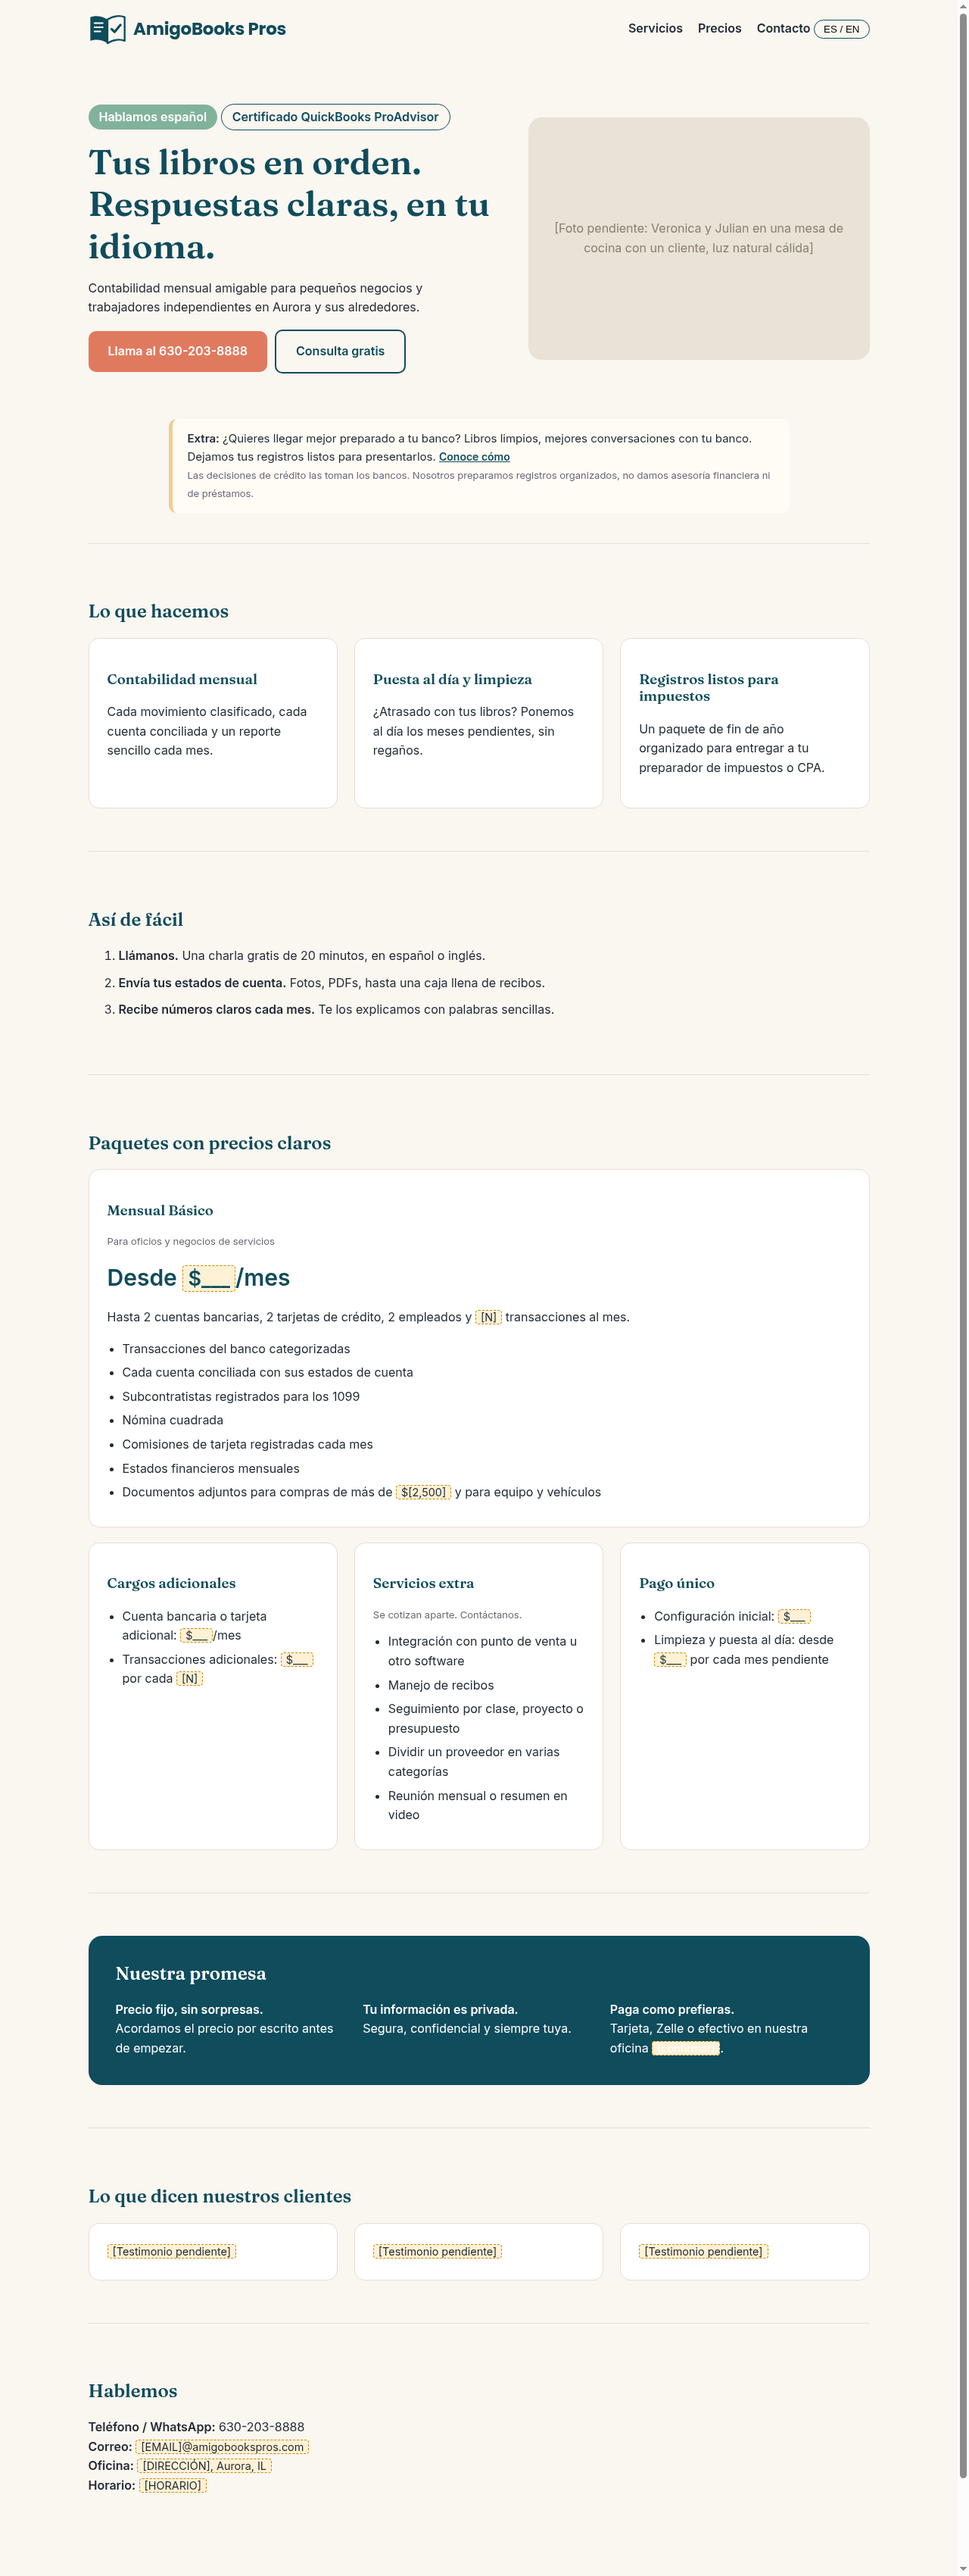
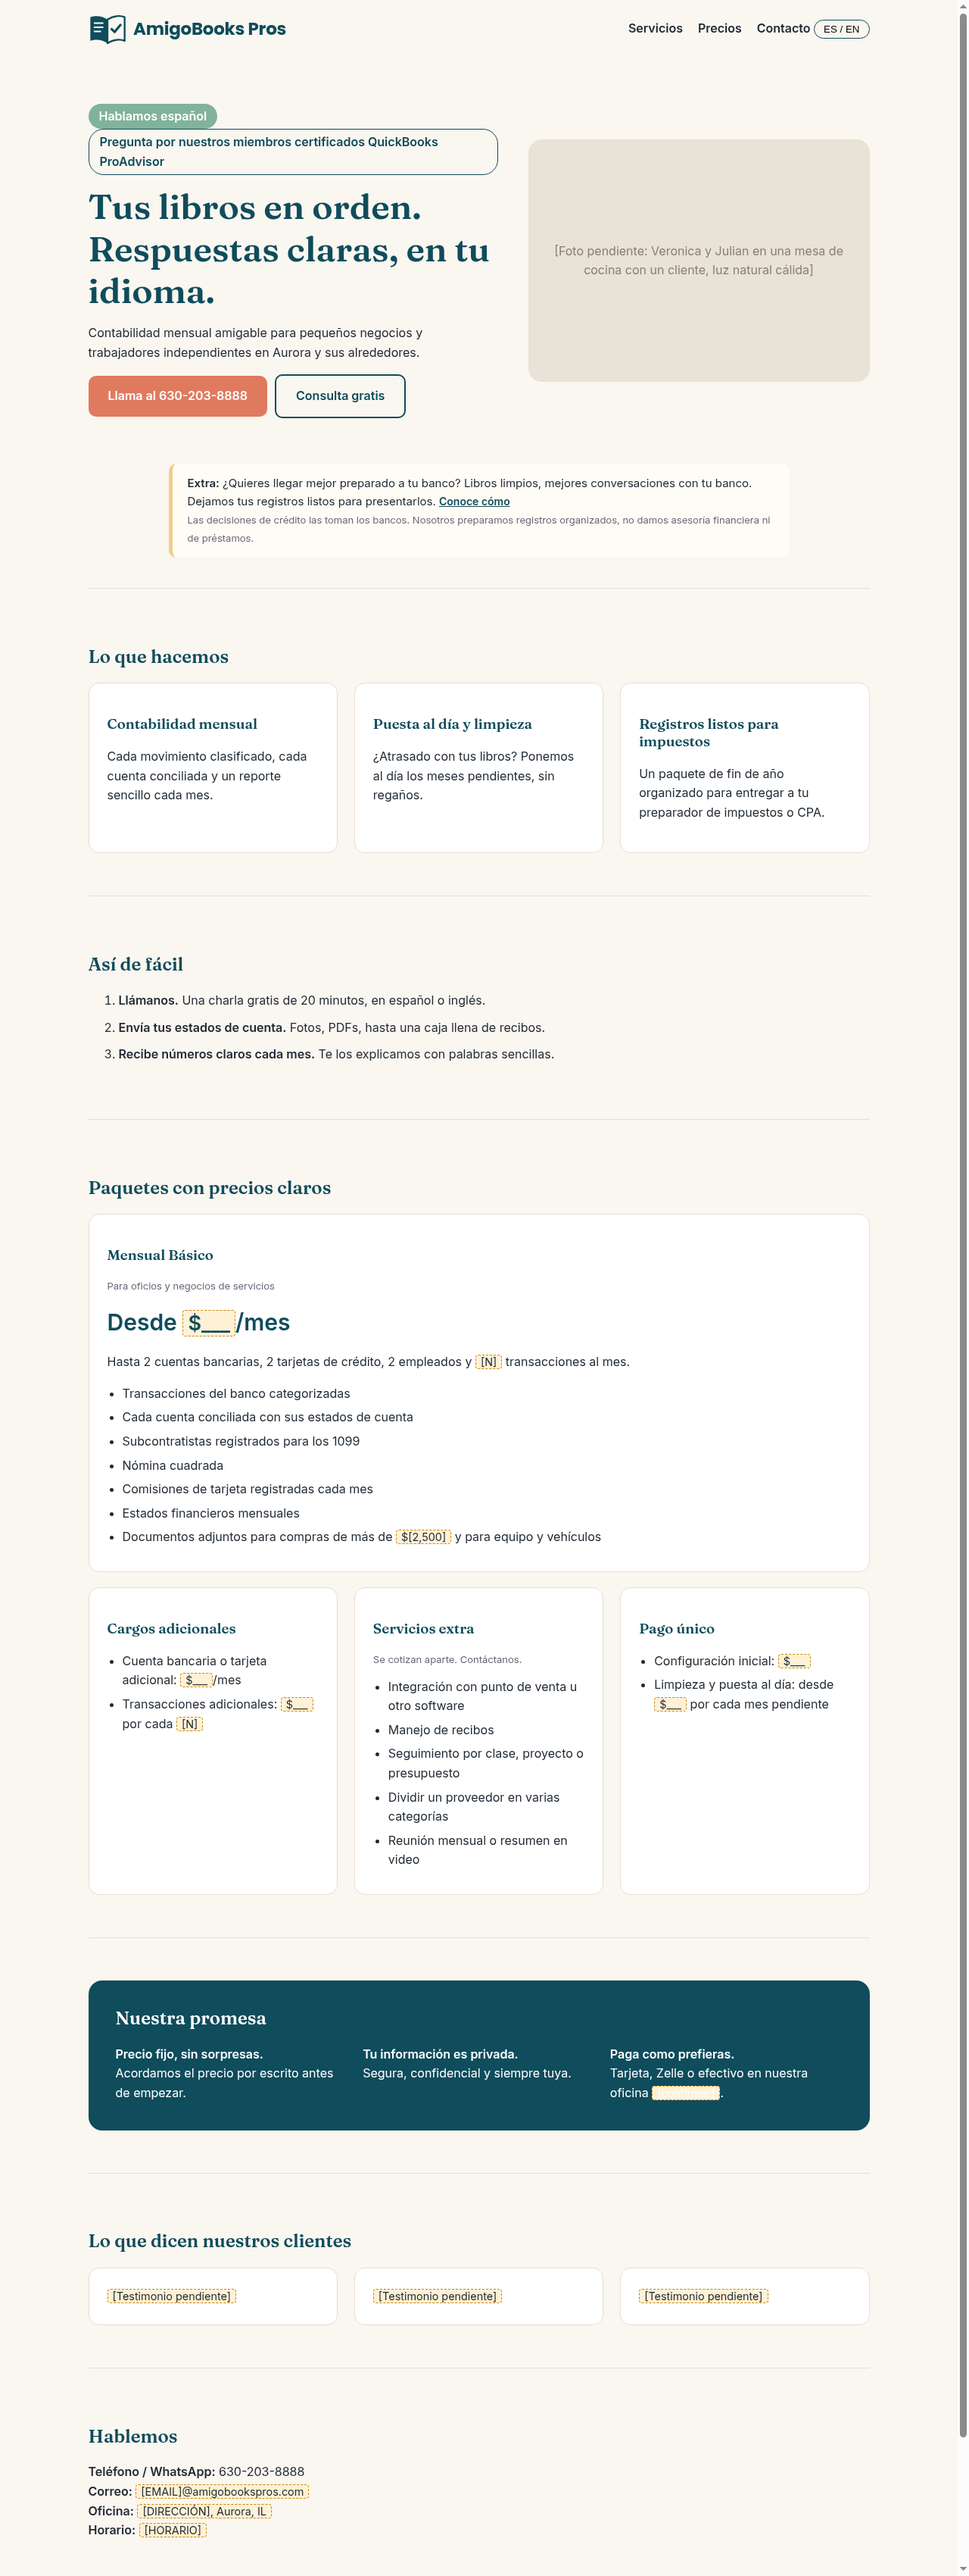
Update ProAdvisor badge text

diff --git a/index.html b/index.html
@@ -29,7 +29,7 @@ section{padding:56px 0;border-top:1px solid var(--line)}
 <header><a class="logo" href="#" aria-label="AmigoBooks Pros"><svg viewBox="0 0 64 52" width="50" aria-hidden="true"><path d="M32 10 C22 3 10 3 3 6 V46 C10 43 22 43 32 50Z" fill="#0F4C5C"/><path d="M32 10 C42 3 54 3 61 6 V46 C54 43 42 43 32 50Z" fill="none" stroke="#0F4C5C" stroke-width="3" stroke-linejoin="round"/><path d="M10 16h14M10 23h14M10 30h10" stroke="#fff" stroke-width="2.6" stroke-linecap="round"/><path d="M39 26l5 5 10-12" stroke="#0F4C5C" stroke-width="4" fill="none" stroke-linecap="round" stroke-linejoin="round"/></svg><span>AmigoBooks Pros</span></a>
 <nav><a href="#services" data-en="Services" data-es="Servicios">Services</a><a href="#pricing" data-en="Pricing" data-es="Precios">Pricing</a><a href="#contact" data-en="Contact" data-es="Contacto">Contact</a> <button class="tog" onclick="t()" aria-label="Español / English">ES / EN</button></nav></header>
 
-<div class="hero"><div><span class="badge">Hablamos español</span> <span class="badge" style="background:none;color:var(--teal);border:1px solid var(--teal)" data-en="QuickBooks ProAdvisor Certified" data-es="Certificado QuickBooks ProAdvisor">QuickBooks ProAdvisor Certified</span>
+<div class="hero"><div><span class="badge">Hablamos español</span> <span class="badge" style="background:none;color:var(--teal);border:1px solid var(--teal)" data-en="Ask for our QuickBooks ProAdvisor Certified team members" data-es="Pregunta por nuestros miembros certificados QuickBooks ProAdvisor">Ask for our QuickBooks ProAdvisor Certified team members</span>
 <h1 data-en="Your books, in order. Clear answers, in your language." data-es="Tus libros en orden. Respuestas claras, en tu idioma.">Your books, in order. Clear answers, in your language.</h1>
 <p data-en="Friendly monthly bookkeeping for small businesses and self-employed workers in Aurora and beyond." data-es="Contabilidad mensual amigable para pequeños negocios y trabajadores independientes en Aurora y sus alrededores.">Friendly monthly bookkeeping for small businesses and self-employed workers in Aurora and beyond.</p>
 <a class="btn" href="tel:6302038888" data-en="Call 630-203-8888" data-es="Llama al 630-203-8888">Call 630-203-8888</a><a class="btn o" href="#contact" data-en="Free consultation" data-es="Consulta gratis">Free consultation</a></div>
